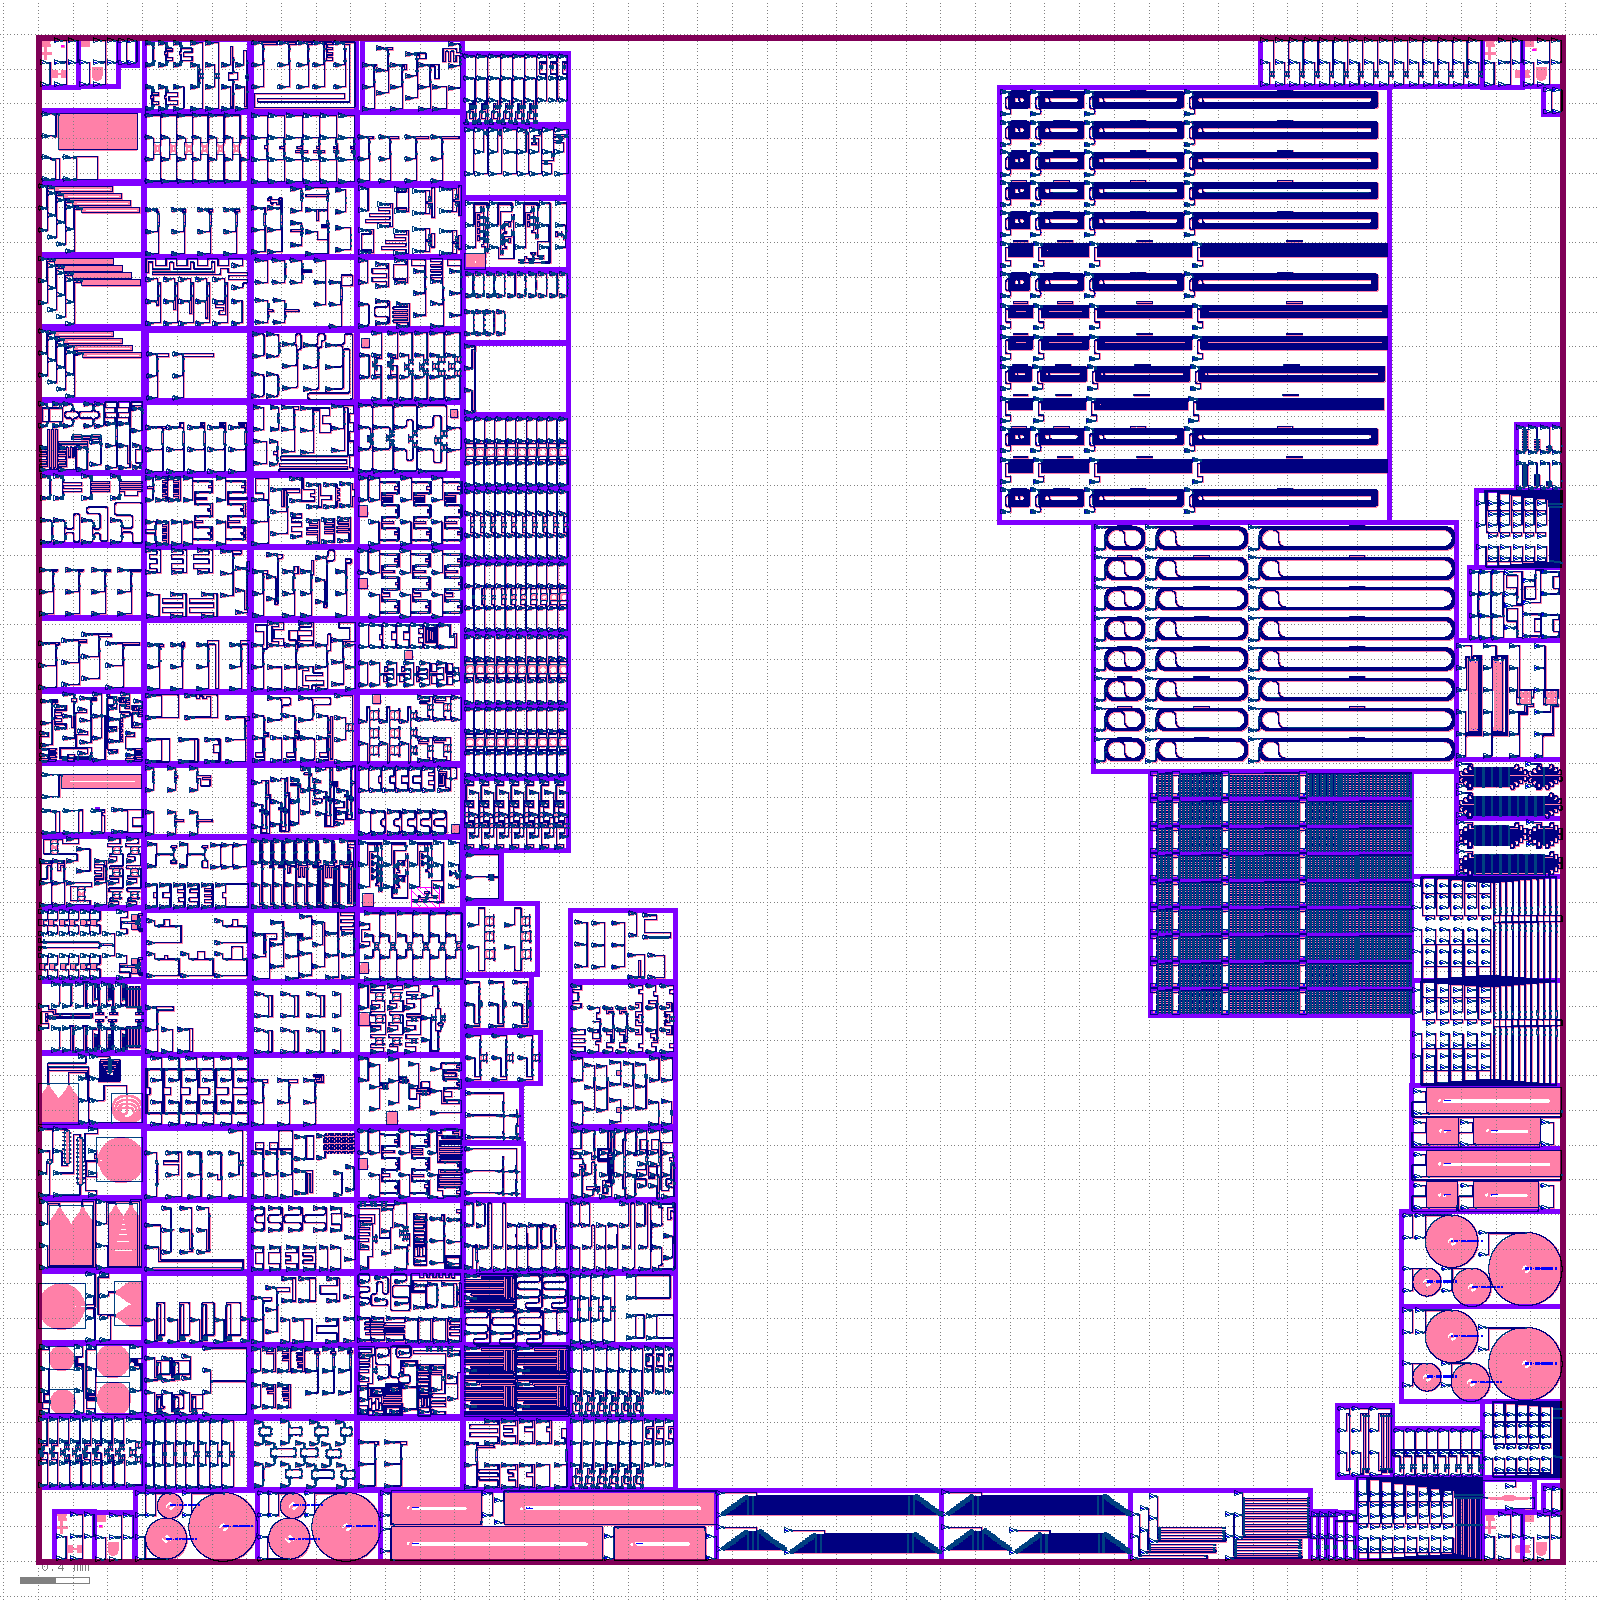
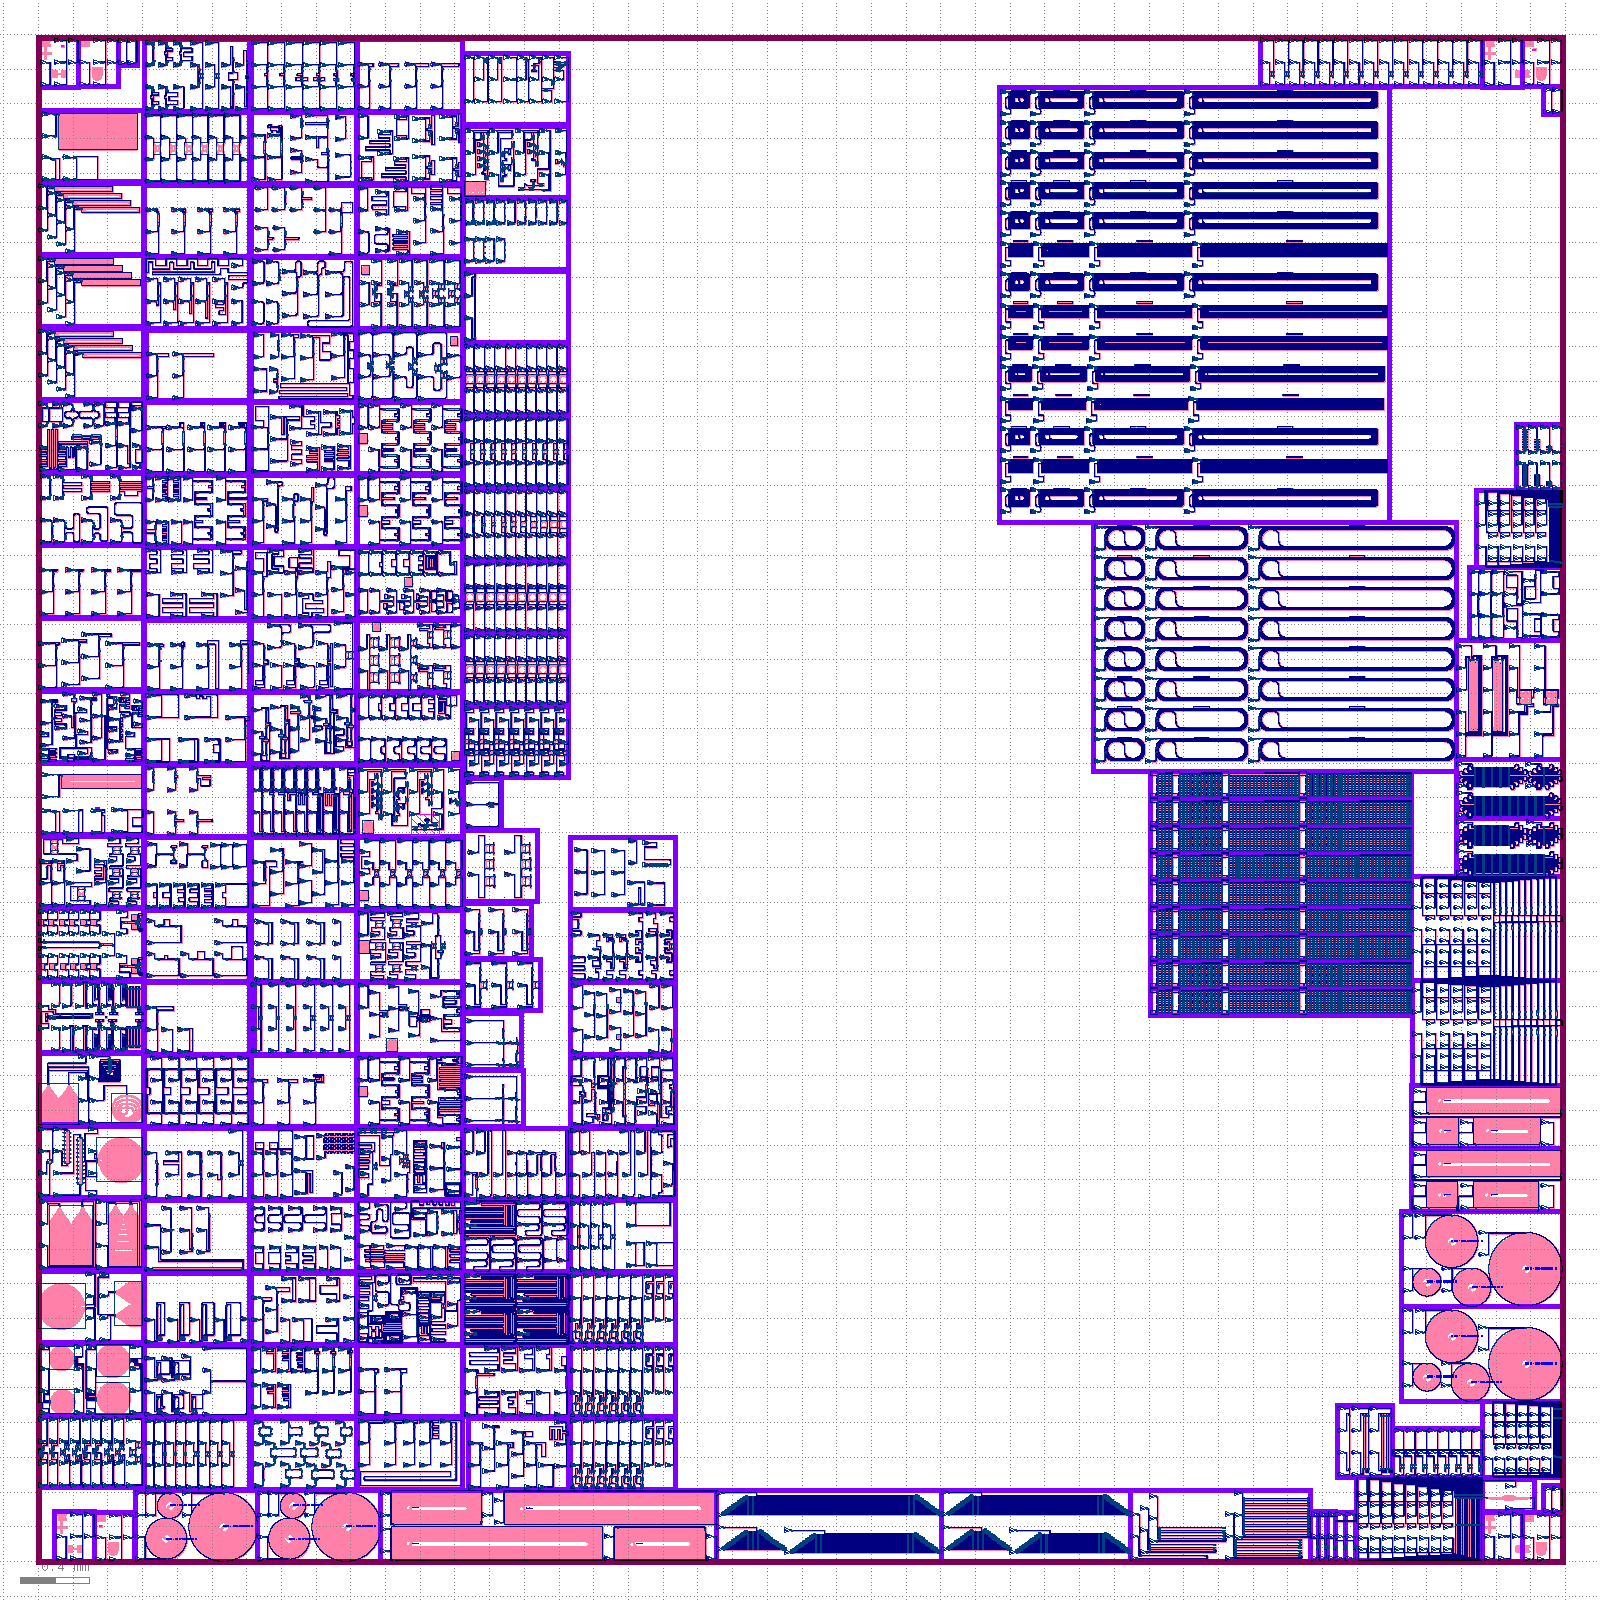
Aggregation layout: https://github.com/SiEPIC/openEBL-2026-05/actions/runs/25955076789/artifacts/7031213784

Changed region(s): [[0.1562, 0.0, 0.4375, 0.9375]]

diff --git a/README.md b/README.md
@@ -91,5 +91,5 @@ Will be added here.
 
 Click on the following link to download the EBeam.oas merged layout file:
 <!-- start-link -->
-https://github.com/SiEPIC/openEBL-2026-05/actions/runs/25954808323/artifacts/7031131985
+https://github.com/SiEPIC/openEBL-2026-05/actions/runs/25955076789/artifacts/7031213784
 <!-- end-link -->